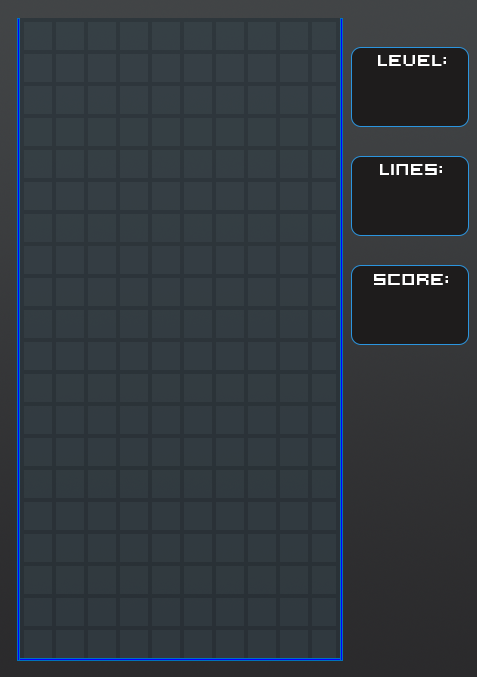
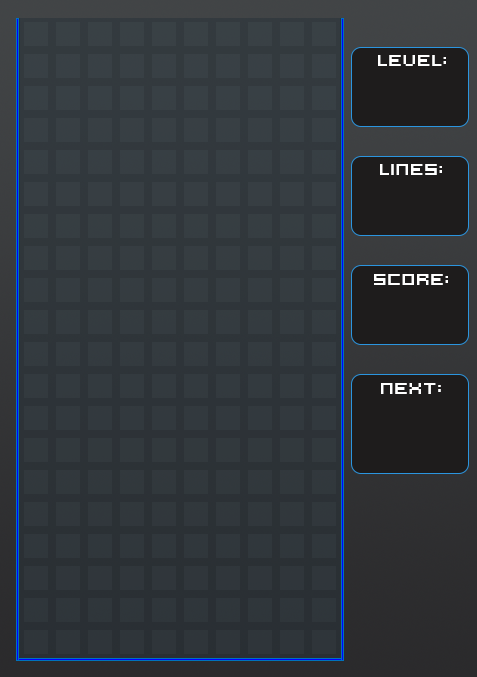
updated gui a bit

Changed region(s): [[0.7044, 0.031, 0.9979, 0.9926], [0.0294, 0.031, 0.0587, 0.9926]]

diff --git a/TetrisGame/Form1.cs b/TetrisGame/Form1.cs
@@ -254,6 +254,7 @@ namespace TetrisGame
                             e.Graphics.DrawRectangle(new Pen(Color.Black), rows[j]);
 
             }
+            
 
             #region Check Row
 
@@ -1383,7 +1384,15 @@ namespace TetrisGame
                     moveRight();
                     break;
                 case Keys.K:
-                    MessageBox.Show("" + nextShape);
+                    for (int i = placedrect.Length - 1; i > 0; i--)
+                    {
+
+                        if (bOne.X == placedrect[i].X)
+                        {
+                            plyY = placedrect[i].Y - 32;
+                        }
+
+                    }
                     break;
                 case Keys.Z:
                 case Keys.X:

diff --git a/TetrisGame/Form1.Designer.cs b/TetrisGame/Form1.Designer.cs
@@ -132,7 +132,7 @@ namespace TetrisGame
             // nextShapeBox
             // 
             this.nextShapeBox.BackColor = System.Drawing.Color.Transparent;
-            this.nextShapeBox.Location = new System.Drawing.Point(359, 355);
+            this.nextShapeBox.Location = new System.Drawing.Point(360, 384);
             this.nextShapeBox.Name = "nextShapeBox";
             this.nextShapeBox.Size = new System.Drawing.Size(100, 100);
             this.nextShapeBox.TabIndex = 8;
